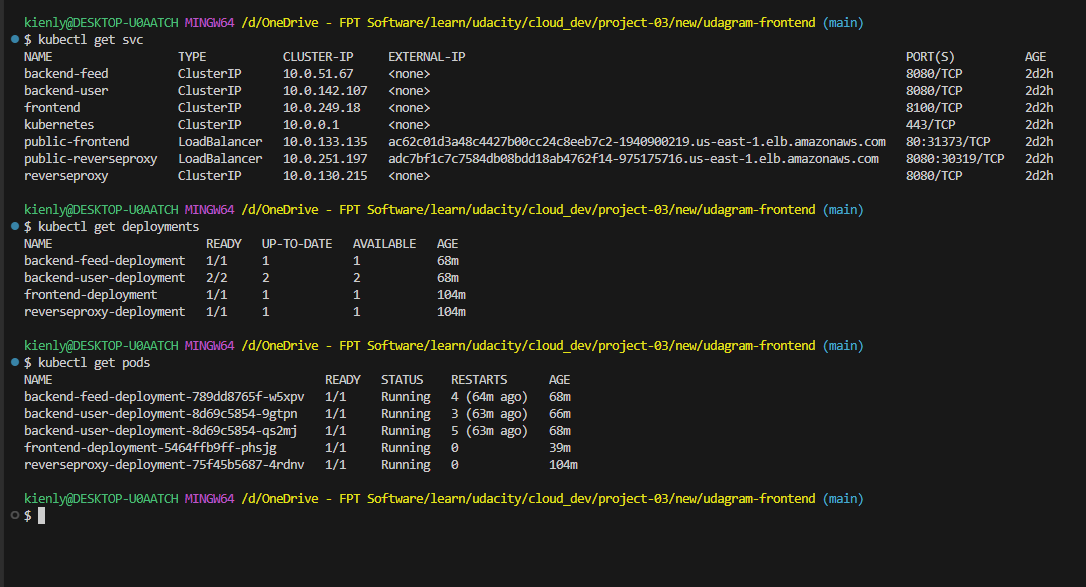
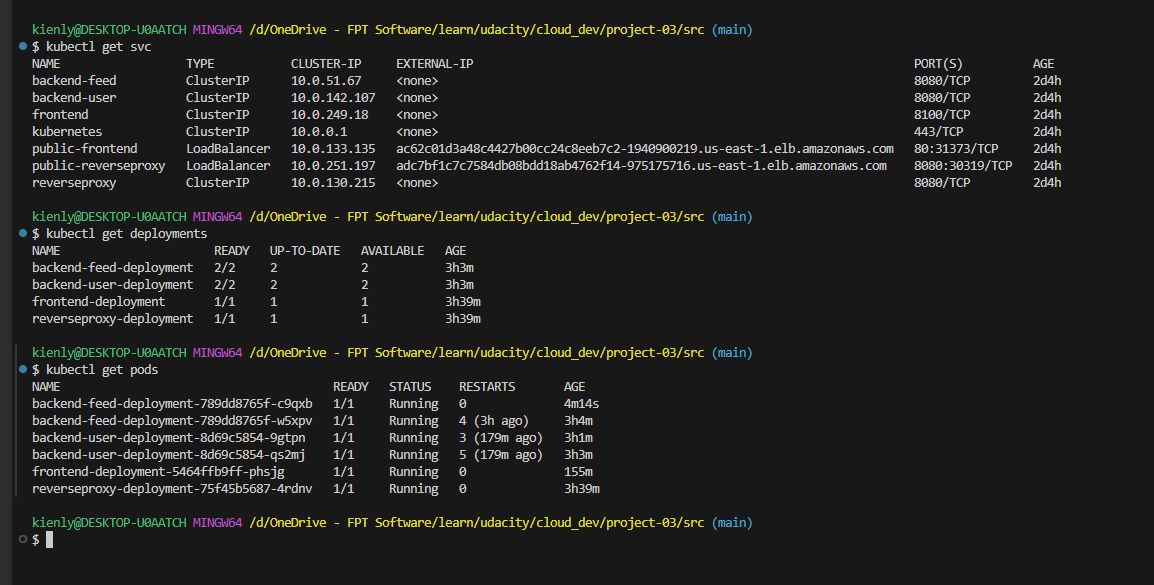
add screenshots

Changed region(s): [[0.0, 0.0308, 0.9724, 0.9538]]

diff --git a/screenshots/README.md b/screenshots/README.md
@@ -7,6 +7,7 @@ To help review your infrastructure, please include the following screenshots in 
 
 * GitHub repository’s settings showing your Travis webhook (can be found in Settings - Webhook)
 ![](2.1.travis_element.png)
+
 * Travis CI showing a successful build and deploy job
 ![](2.travisCI.png)
 
@@ -23,12 +24,13 @@ kubectl describe services
 ```
 ![](services.png)
 ![](services1.png)
+
 * To verify that you have horizontal scaling set against CPU usage
 ```bash
 kubectl describe hpa
 ```
 ![](hpa.png)
-
+![](replicas.png)
 
 * To verify that you have set up logging with a backend application
 ```bash
